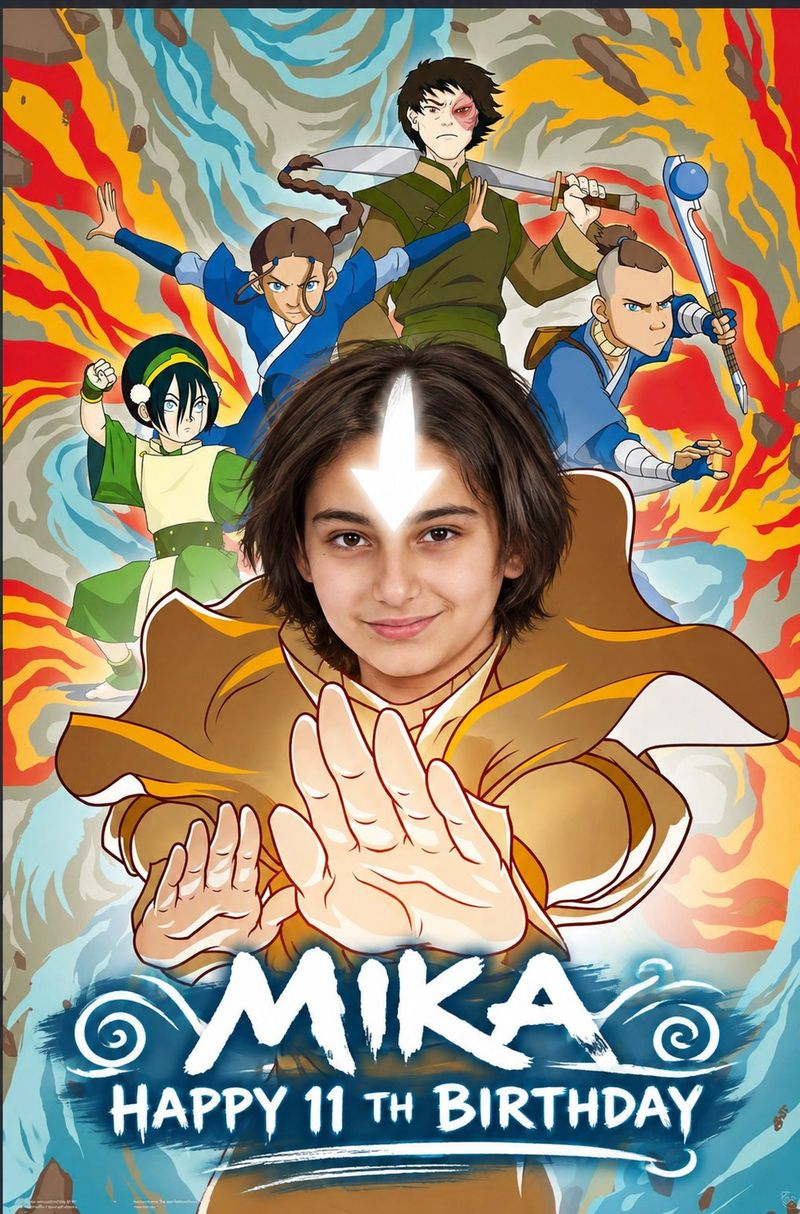
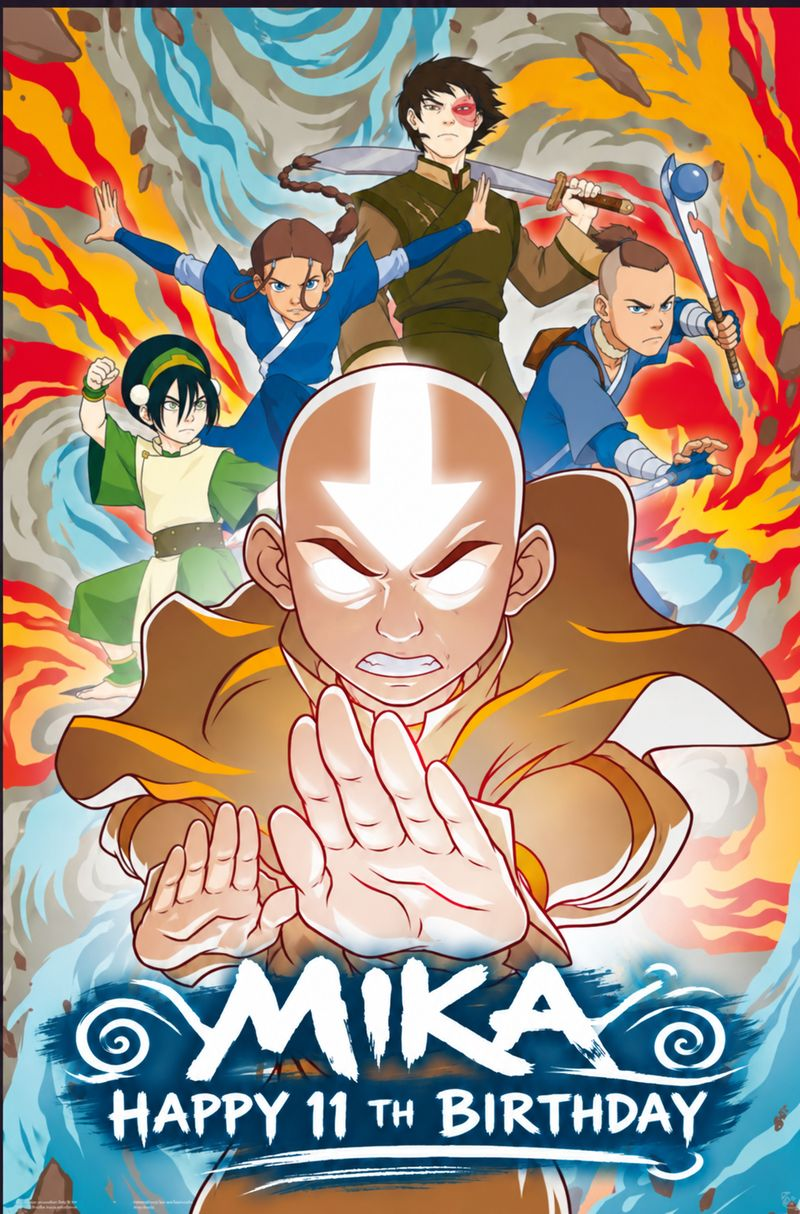
Swap poster to the Aang artwork
Claude-Session: https://claude.ai/code/session_011b2ooZY1ULabn1CGC2J2LK

diff --git a/public/mika/index.html b/public/mika/index.html
@@ -150,7 +150,7 @@
 <main class="wrap">
 
   <div class="poster">
-    <img src="poster.jpg" alt="Mika as the Avatar, surrounded by Katara, Sokka, Toph and Zuko. Mika, Happy 11th Birthday!" width="800" height="1214">
+    <img src="poster.jpg" alt="Avatar Aang in the Avatar State with Katara, Sokka, Toph and Zuko. Mika, Happy 11th Birthday!" width="800" height="1214">
     <span class="badge">You're invited!</span>
   </div>
 
